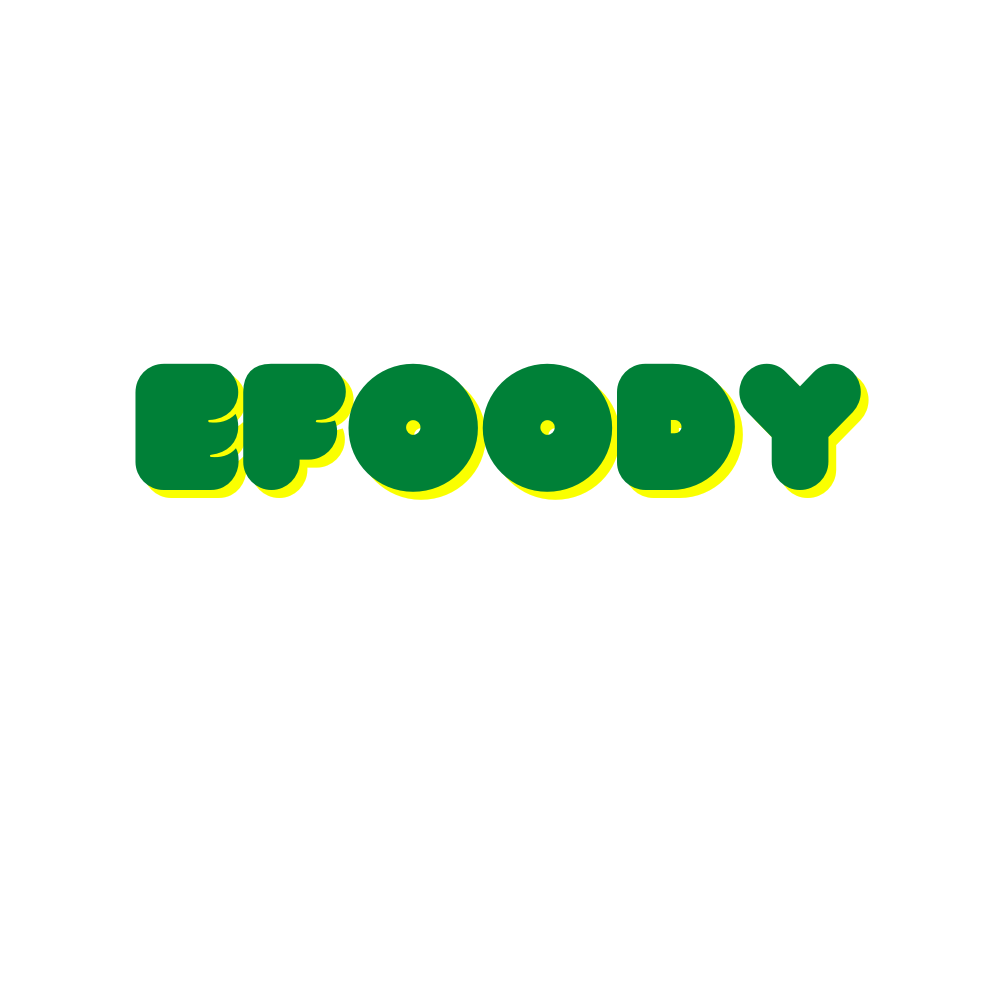
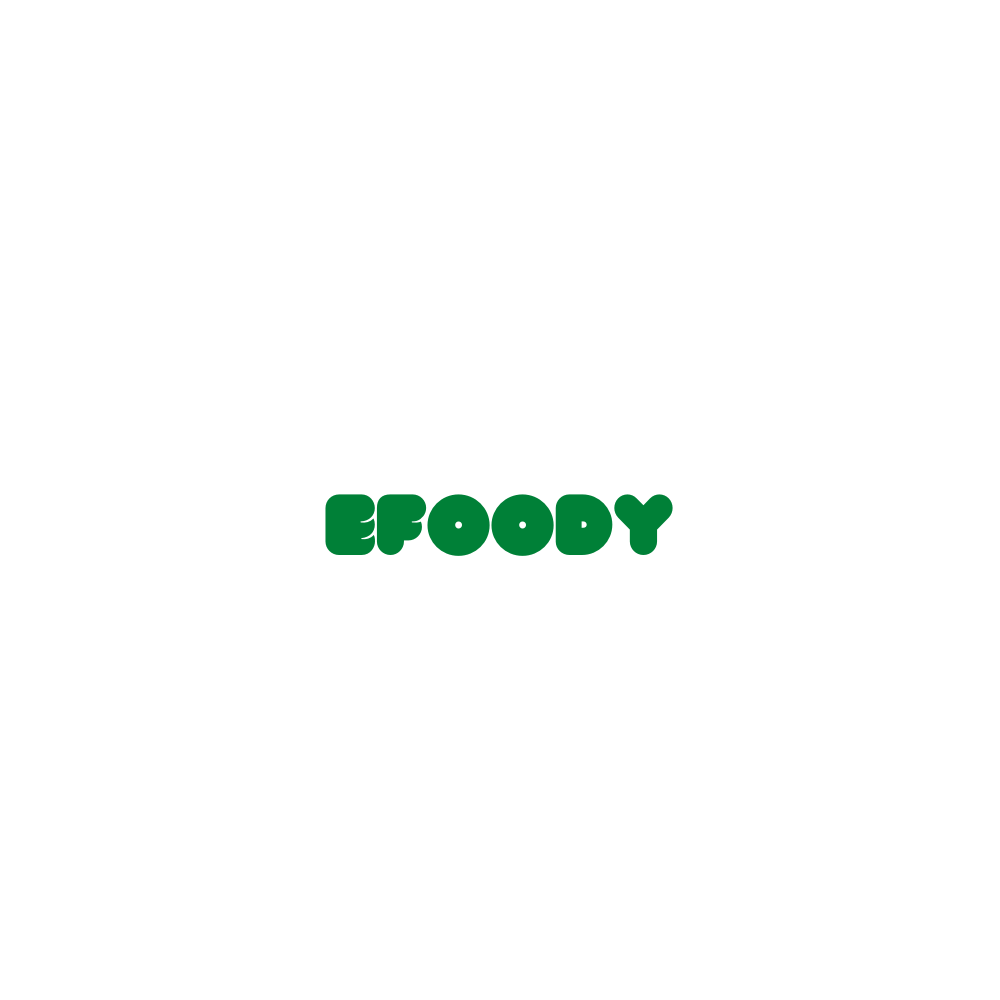
updates

Changed region(s): [[0.124, 0.341, 0.868, 0.558]]

diff --git a/src/views/account/screens/login-screen/login-screen.js b/src/views/account/screens/login-screen/login-screen.js
@@ -1,70 +1,45 @@
-import React, {useContext, useState} from "react";
-import {TouchableOpacity} from "react-native";
-import { LoginBackground, LoginCover, LoginContainer, AuthInput, AuthButton, Title, ErrorContainer } from "./login-screen.styles";
+import React, { useContext, useState } from "react";
+import { LoginBackground, LoginContainer, AuthInput, AuthButton, EfoodyTitle, LoginFooter, FooterActions } from "./login-screen.styles";
 import { Spacer } from "../../../../components/spacer/spacer.component";
 import { Text } from "../../../../components/typography/text.component";
-import {TextInput} from "react-native-paper";
+import { TextInput } from "react-native-paper";
 import { LoginContext } from "../../context/login.context";
 import { IsLoading } from "../../../../components/loading/loading.component";
+import { MaterialCommunityIcons, MaterialIcons } from "@expo/vector-icons";
 
 export const LoginScreen = ({ navigation }) => {
+	const { onLogin, loading } = useContext(LoginContext);
 
-  const { onLogin, loading } = useContext(LoginContext);
+	const [email, setEmail] = useState("");
+	const [password, setPassword] = useState("");
+	const [secured, setSecured] = useState(true);
 
-  const [email, setEmail] = useState("");
-  const [password, setPassword] = useState("");
-  const [secured, setSecured] = useState(true);
+	return (
+		<LoginBackground>
+			<IsLoading loading={loading} />
+			<EfoodyTitle source={require("../../../../../assets/efoody_title.png")} />
+			<LoginContainer>
+				<AuthInput label="E-mail" underlineColor="#138000" activeUnderlineColor="#138000" textContentType="emailAddress" keyboardType="email-address" autoCapitalize="none" onChangeText={(email) => setEmail(email)} />
 
-  return (
-    <LoginBackground>
-      <IsLoading loading={loading} />
-      <LoginCover />
-      <Title>Perfect Menu</Title>
-      <LoginContainer>
-      <AuthInput
-          label="E-mail"
-          // value={}
-          textContentType="emailAddress"
-          keyboardType="email-address"
-          autoCapitalize="none"
-          onChangeText={(email) => setEmail(email)}
-        />
-        <Spacer size="large">
-          <AuthInput
-            label="Password"
-            // value={}
-            textContentType="password"
-            secureTextEntry={secured}
-            autoCapitalize="none"
-            right={<TextInput.Icon name="eye" onPress={() => setSecured(!secured)} />}
-            onChangeText={(password) => setPassword(password)}
-          />
-        </Spacer>
-        
-        <Spacer size="large">
-          
-            <TouchableOpacity onPress={() => navigation.navigate("VerifyEmail")}>
-              <Text variant="error">Forgot Password?</Text>
-            </TouchableOpacity>
-          
-        </Spacer>
-        
-        <Spacer size="large">
-          <AuthButton
-            icon="lock-open-outline"
-            mode="contained"
-            disabled={loading && true}
-            onPress={() => onLogin(email, password)}
-          >
-            {loading ? 'Loading' : 'Login'}
-          </AuthButton>
-        </Spacer>
-      </LoginContainer>
-      <Spacer size="large">
-        <AuthButton mode="contained" onPress={() => navigation.goBack()}>
-          Back
-        </AuthButton>
-      </Spacer>
-    </LoginBackground>
-  );
-}
+				<AuthInput label="Password" underlineColor="#138000" activeUnderlineColor="#138000" textContentType="password" secureTextEntry={secured} autoCapitalize="none" right={<TextInput.Icon name="eye" color="#138000" onPress={() => setSecured(!secured)} />} onChangeText={(password) => setPassword(password)} />
+
+				<Spacer position="bottom" size="large" />
+
+				<AuthButton mode="contained" disabled={loading && true} onPress={() => onLogin(email, password)}>
+					{loading ? "Loading" : "Login"}
+				</AuthButton>
+			</LoginContainer>
+			<LoginFooter>
+				<FooterActions onPress={() => navigation.goBack()}>
+					<MaterialCommunityIcons name="chevron-left" size={20} color="#138000" />
+					<Text variant="tag">Previous</Text>
+				</FooterActions>
+				<FooterActions onPress={() => navigation.navigate("VerifyEmail")}>
+					<MaterialIcons name="lock" size={15} color="#138000" />
+					<Spacer position="right" size="small" />
+					<Text variant="tag">Forgot Password?</Text>
+				</FooterActions>
+			</LoginFooter>
+		</LoginBackground>
+	);
+};

diff --git a/src/views/account/screens/login-screen/login-screen.styles.js b/src/views/account/screens/login-screen/login-screen.styles.js
@@ -1,48 +1,58 @@
 import styled from "styled-components";
 import { colors } from "../../../../components/theme/colors";
-import {View} from "react-native";
-import {Button, TextInput} from "react-native-paper";
-import{ Text } from "../../../../components/typography/text.component";
+import { View, Image, TouchableOpacity } from "react-native";
+import { Button, TextInput } from "react-native-paper";
+import { Text } from "../../../../components/typography/text.component";
 
 export const LoginBackground = styled.ImageBackground.attrs({
-  source: require("../../../../assets/images/home_bg.jpeg"),
+	source: require("../../../../assets/images/efoody_footer.png"),
 })`
-  flex: 1;
-  align-items: center;
-  justify-content: center;
+	flex: 1;
+	align-items: center;
+	/* justify-content: center; */
 `;
 
-export const LoginCover = styled(View)`
-  position: absolute;
-  width: 100%;
-  height: 100%;
-  background-color: rgba(255, 255, 255, 0.3);
+export const FooterActions = styled(TouchableOpacity)`
+	flex-direction: row;
+	align-items: center;
+`;
+
+export const LoginFooter = styled(View)`
+	flex-direction: row;
+	width: 80%;
+	justify-content: space-between;
+`;
+
+export const EfoodyTitle = styled(Image)`
+	align-self: center;
+	margin-top: ${({ theme }) => theme.space[5]};
 `;
 
 export const LoginContainer = styled(View)`
-  background-color: rgba(255, 255, 255, 0.7);
-  padding: ${({theme}) => theme.space[4]};
-  margin-top: ${({theme}) => theme.space[2]};
+	padding: ${({ theme }) => theme.space[4]};
+	margin-top: 10%;
 `;
 
 export const AuthInput = styled(TextInput)`
-  width: 300px;
+	width: 300px;
+	background-color: ${({ theme }) => theme.colors.bg.primary};
 `;
 
 export const AuthButton = styled(Button).attrs({
-  color: colors.brand.primary,
+	color: colors.brand.primary,
 })`
-  padding: ${(props) => props.theme.space[2]};
+	padding: ${(props) => props.theme.space[2]};
+	background-color: ${({ theme }) => theme.colors.ui.success};
 `;
 
 export const Title = styled(Text)`
-  font-size: 25px;
+	font-size: 25px;
 `;
 
 export const ErrorContainer = styled(View)`
-  max-width: 300px;
-  align-items: center;
-  align-self: center;
-  margin-top: ${(props) => props.theme.space[2]};
-  margin-bottom: ${(props) => props.theme.space[2]};
+	max-width: 300px;
+	align-items: center;
+	align-self: center;
+	margin-top: ${(props) => props.theme.space[2]};
+	margin-bottom: ${(props) => props.theme.space[2]};
 `;

diff --git a/src/views/account/screens/account-screen/account-screen.js b/src/views/account/screens/account-screen/account-screen.js
@@ -1,21 +1,19 @@
 import React from "react";
 import { Image } from "react-native";
 import LottieView from "lottie-react-native";
-import { AccountBackground, AccountCover, AccountContainer, AuthButton, Title, AnimationWrapper } from "./account-screen.styles";
+import { AccountBackground, AccountCover, AccountContainer, AuthButton, Title, AnimationWrapper, EfoodyTitle } from "./account-screen.styles";
 import { Spacer } from "../../../../components/spacer/spacer.component";
 
 export const AccountScreen = ({ navigation }) => {
 	return (
 		<AccountBackground>
-			{/* <AccountCover /> */}
-			<AnimationWrapper></AnimationWrapper>
-			<Image source={{ uri: "../../../../assets/images/efoody.png" }} />
+			<EfoodyTitle source={require("../../../../../assets/efoody_title.png")} />
 			<AccountContainer>
-				<AuthButton icon="lock-open-outline" mode="contained" onPress={() => navigation.navigate("Login")}>
+				<AuthButton mode="contained" onPress={() => navigation.navigate("Login")}>
 					Login
 				</AuthButton>
 				<Spacer size="large">
-					<AuthButton icon="email" mode="contained" onPress={() => navigation.navigate("Register")}>
+					<AuthButton mode="contained" onPress={() => navigation.navigate("Register")}>
 						Register
 					</AuthButton>
 				</Spacer>

diff --git a/src/views/account/screens/account-screen/account-screen.styles.js b/src/views/account/screens/account-screen/account-screen.styles.js
@@ -1,6 +1,6 @@
 import styled from "styled-components";
 import { colors } from "../../../../components/theme/colors";
-import { View } from "react-native";
+import { View, Image } from "react-native";
 import { Text } from "../../../../components/typography/text.component";
 import { Button } from "react-native-paper";
 
@@ -9,15 +9,14 @@ export const AccountBackground = styled.ImageBackground.attrs({
 })`
 	flex: 1;
 	align-items: center;
-	justify-content: center;
+	/* justify-content: center; */
 `;
 
-// export const AccountBackground = styled(View)`
-// 	flex: 1;
-// 	align-items: center;
-// 	justify-content: center;
-// 	background-color: ${({ theme }) => theme.colors.bg.primary};
-// `;
+export const EfoodyTitle = styled(Image)`
+	align-self: center;
+	margin-top: ${({ theme }) => theme.space[5]};
+	margin-bottom: 25%;
+`;
 
 export const AccountCover = styled(View)`
 	position: absolute;
@@ -27,7 +26,6 @@ export const AccountCover = styled(View)`
 `;
 
 export const AccountContainer = styled(View)`
-	/* background-color: rgba(255, 255, 255, 0.7); */
 	padding: ${({ theme }) => theme.space[4]};
 	margin-top: ${({ theme }) => theme.space[2]};
 `;
